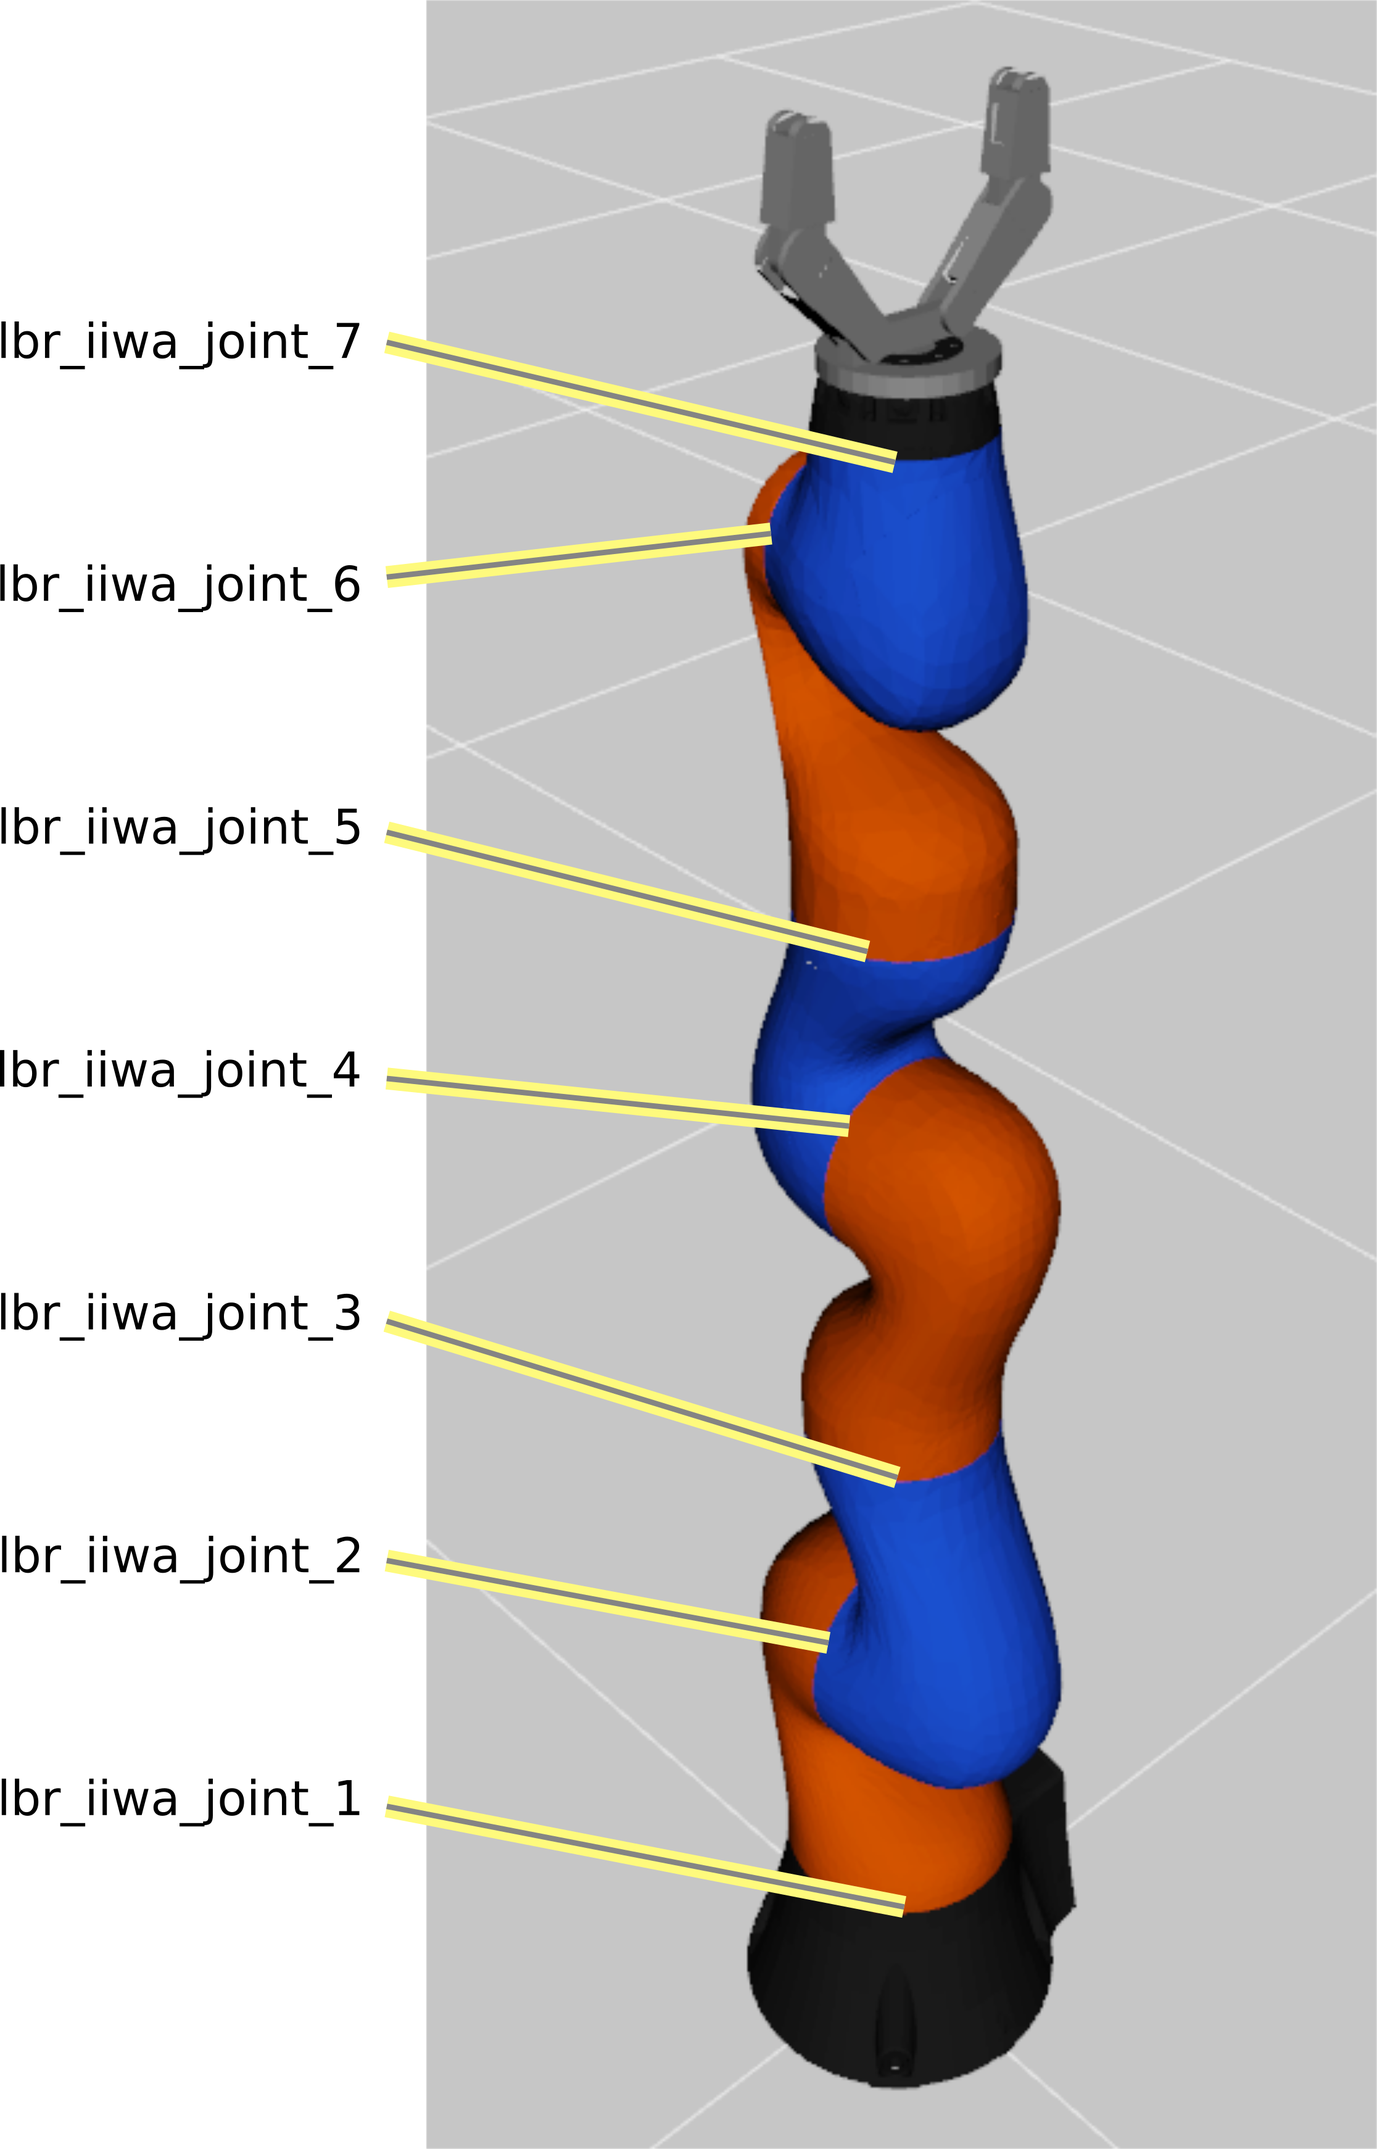
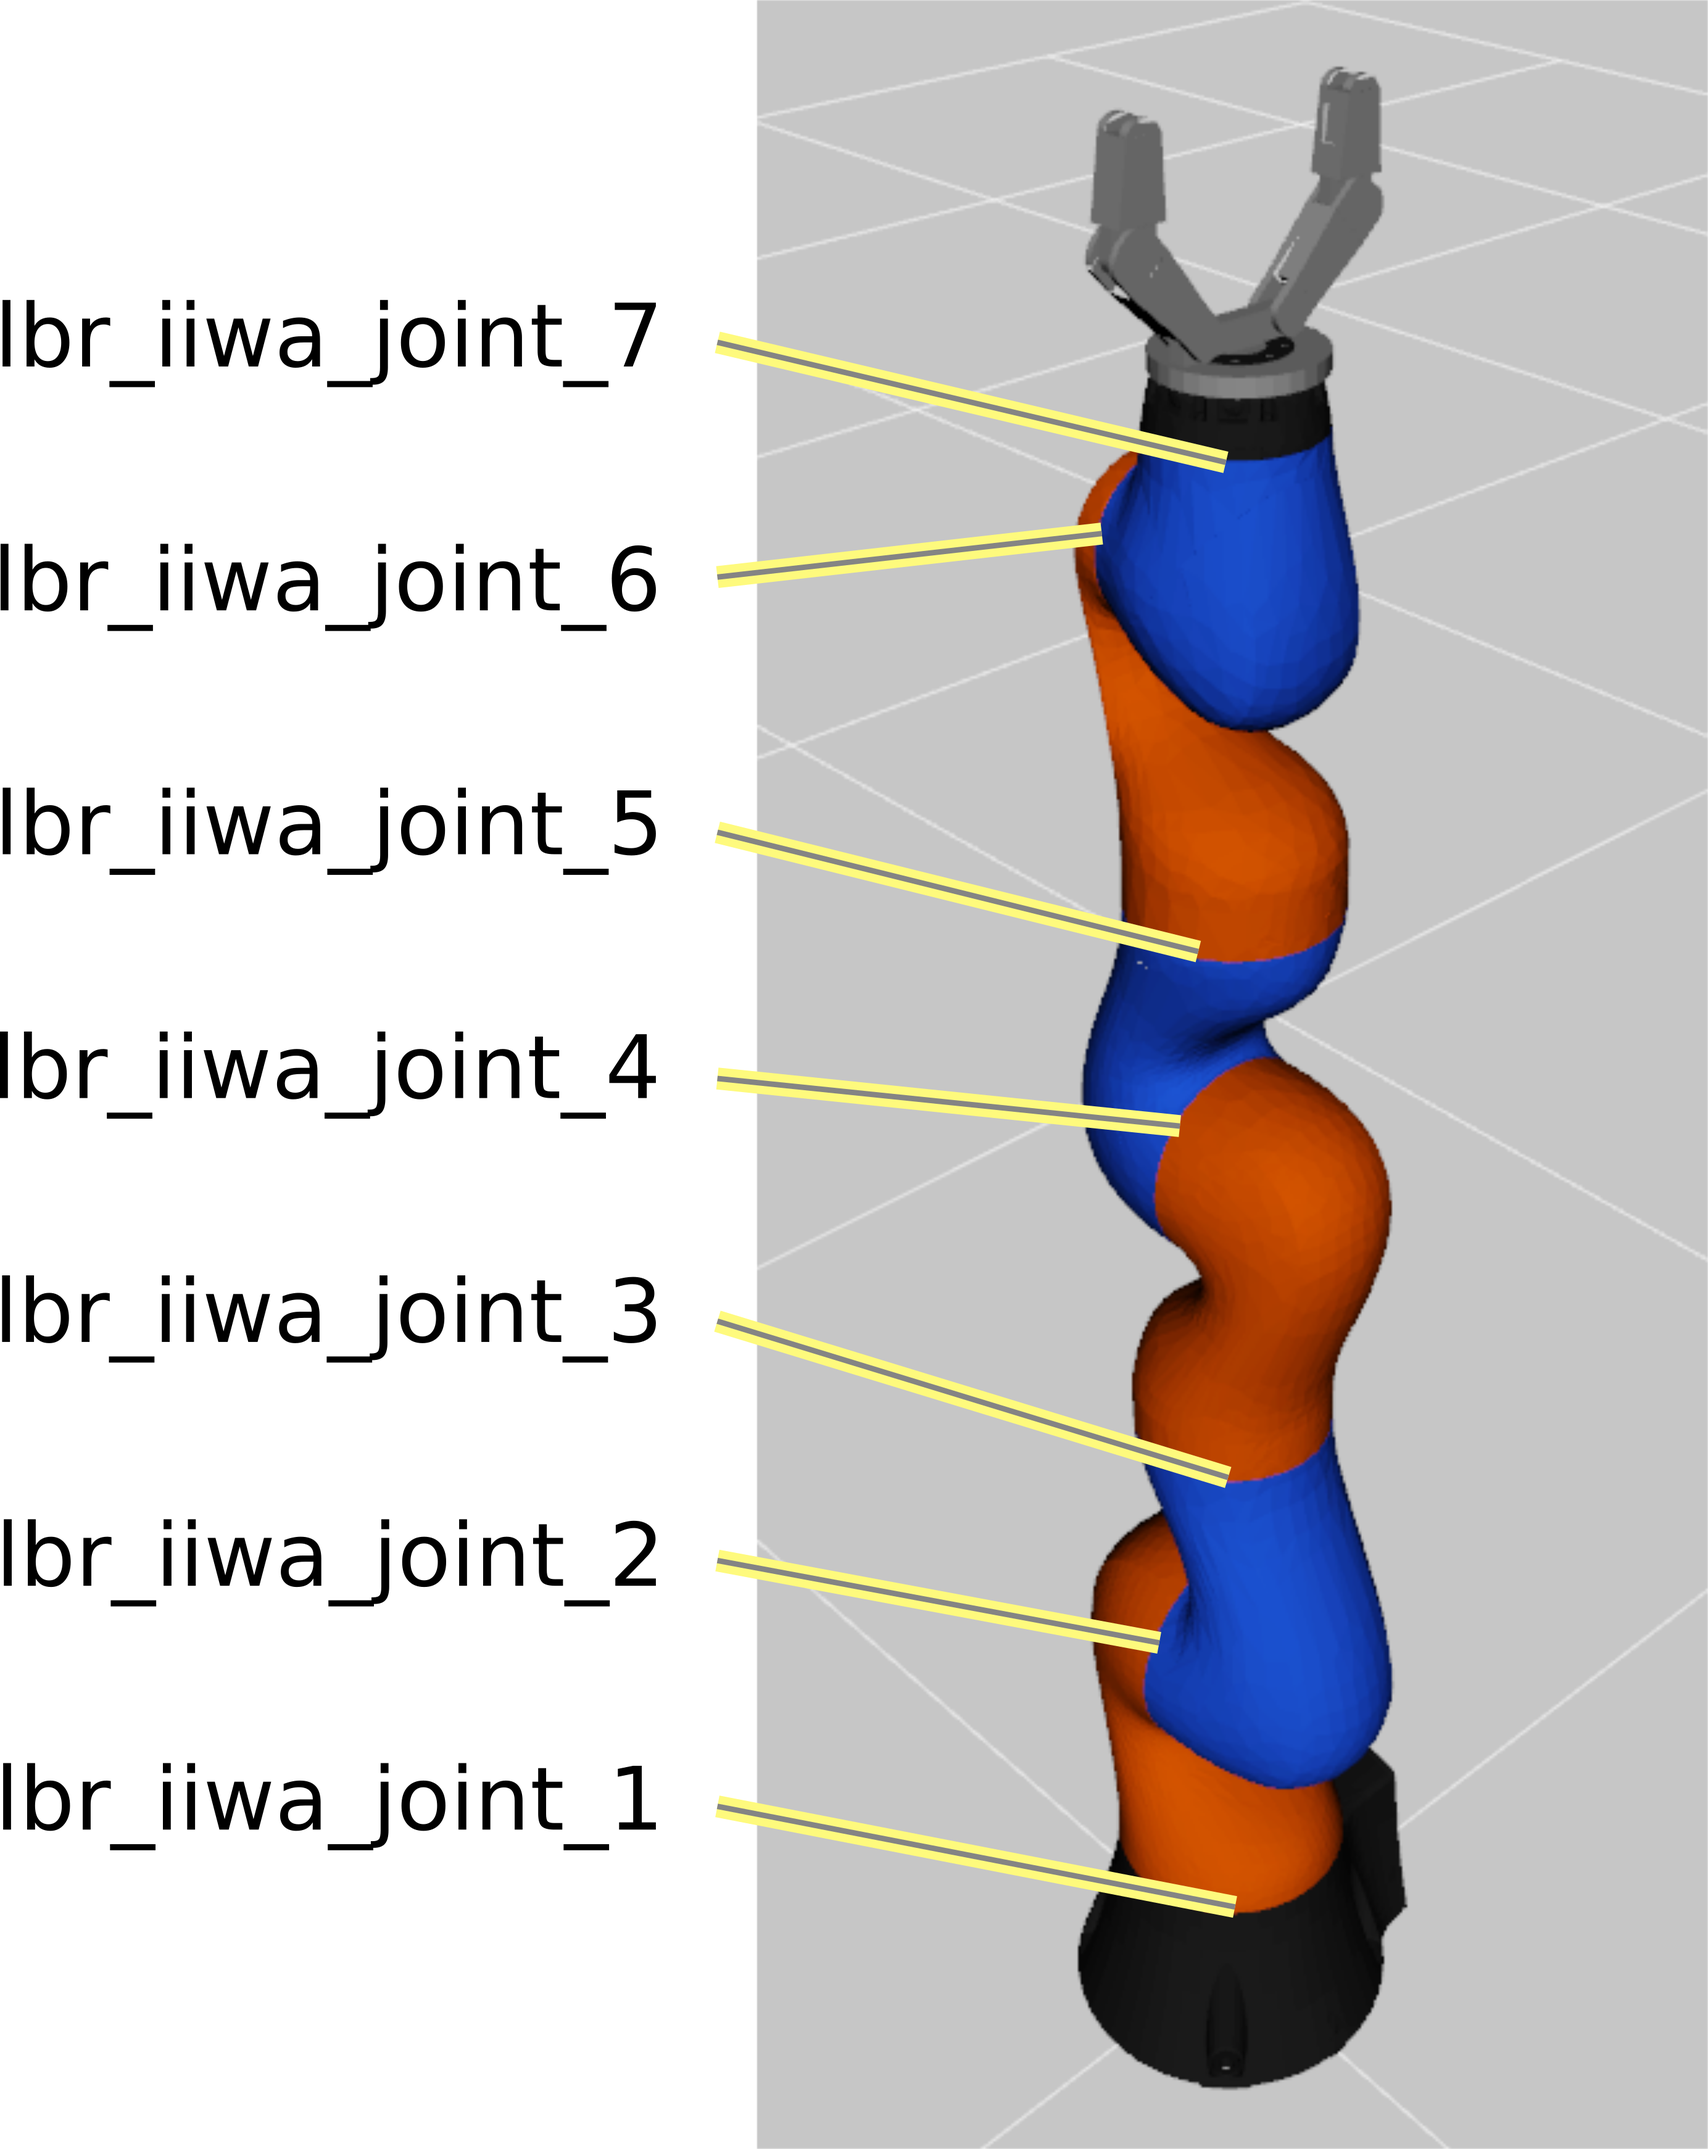
kuka_full_joints

diff --git a/realcomp/examples/calibrate.py b/realcomp/examples/calibrate.py
@@ -13,14 +13,6 @@ import numpy as np
 if __name__ == "__main__":
     
     env = gym.make("REALComp-v0")
-    env._render_width = 640
-    env._render_height = 480
-    env._cam_yaw = 180
-    env.setCamera()
-
-    env.reward_func = lambda x, y: 0
-    env.robot.used_objects = ["table", "tomato", "mustard", "orange"]
-    env.robot.object_poses["mustard"][2] = 1 
     env.render("human")
 
     stime = 20000
@@ -37,23 +29,6 @@ if __name__ == "__main__":
     k = K()
 
 
-    # rollout[0, int(k()*gap):]  +=  np.pi*0.18
-    # rollout[1, int(k()*gap):]  +=  np.pi*0.06
-    # rollout[6, int(k()*gap):]  +=  np.pi*0.4
-    # rollout[7, int(k()*gap):]  +=  np.pi*0.3
-    # rollout[5, int(k()*gap):]  +=  np.pi*0.4
-    # rollout[7, int(k()*gap):]  -=  np.pi*0.26
-    # rollout[8, int(k()*gap):]  +=  np.pi*0.05
-    # rollout[5, int(k()*gap):]  -=  np.pi*0.4
-    # for t in np.linspace(k()*gap, k()*gap, gap):
-    #     rollout[5, int(t):]   +=  np.pi*0.4/gap
-    # rollout[8, int(k()*gap):]  -=  np.pi*0.05
-    # rollout[7, int(k()*gap):]  +=  np.pi*0.26
-    # rollout[5, int(k()*gap):]  -=  np.pi*0.4
-    # rollout[7, int(k()*gap):]  -=  np.pi*0.3
-    # rollout[6, int(k()*gap):]  -=  np.pi*0.4
-    # rollout[1, int(k()*gap):]  -=  np.pi*0.06
-    # rollout[0, int(k()*gap):]  -=  np.pi*0.18
     rollout[1, int(k()*gap):]  +=  np.pi*0.0
     rollout[6, int(k()*gap):]  +=  np.pi*0.4
     rollout[7, int(k()*gap):]  +=  np.pi*0.3
@@ -81,10 +56,7 @@ if __name__ == "__main__":
         
         # do the movement
         state, r, done, info_ = env.step(action)
-    
-        if len(info_["contacts"]) > 0:
-            print(info_["contacts"])
-        
+
         time.sleep(1/200)
 
     
